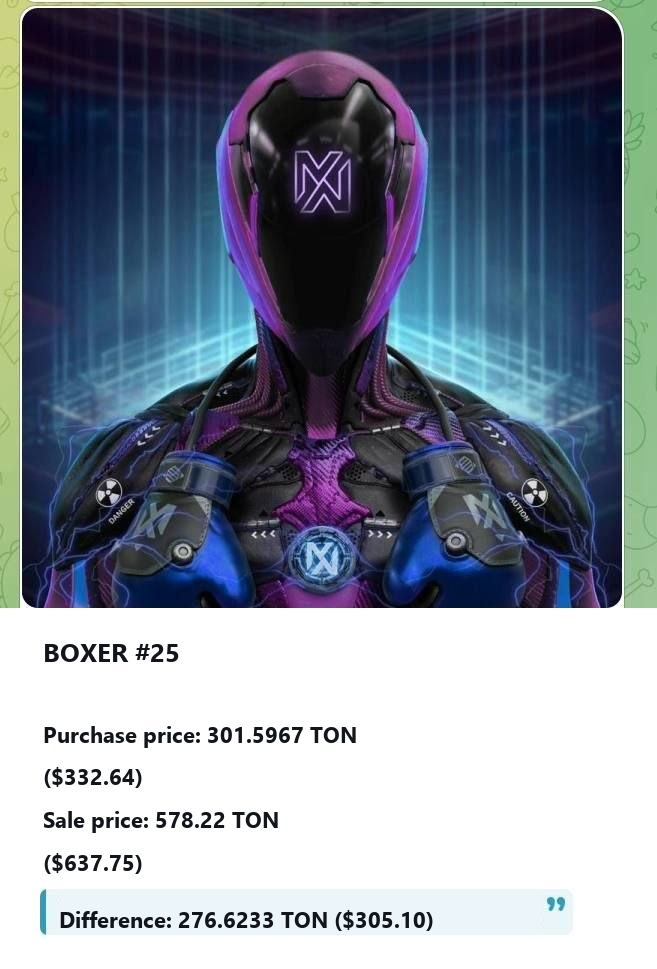
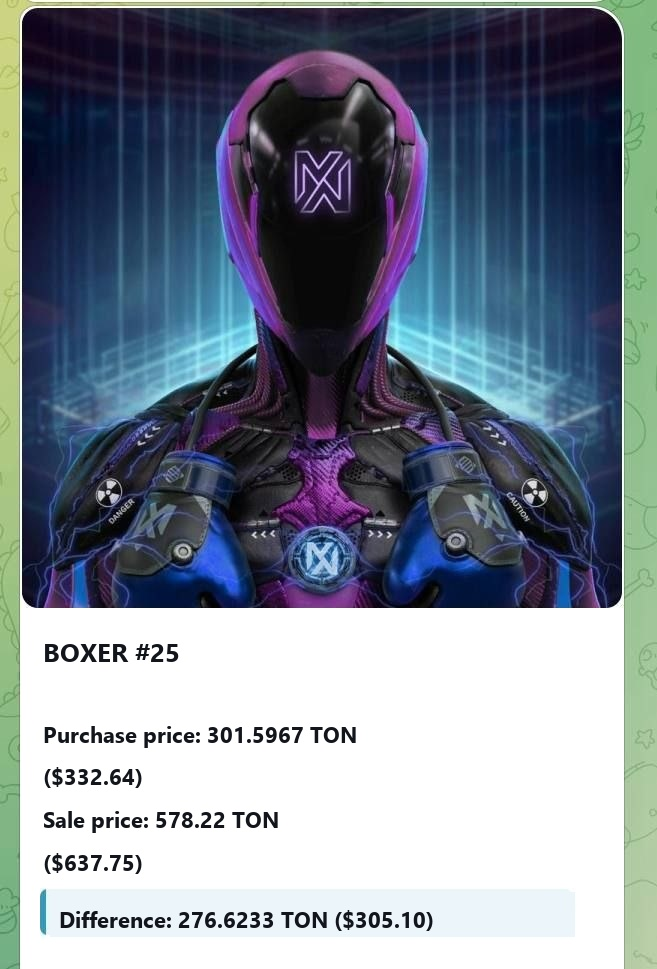
Keep Telegram wallpaper margins on EN BOXER card.
White panel no longer fills past the message edge of the original screenshot.

Changed region(s): [[0.9437, 0.6192, 1.0, 1.0], [0.0, 0.6192, 0.0304, 1.0], [0.8219, 0.9288, 0.8828, 0.9598]]

diff --git a/backend/scripts/make_en_profit_images.py b/backend/scripts/make_en_profit_images.py
@@ -1,5 +1,5 @@
 #!/usr/bin/env python3
-"""EN cards: clean panel + RU quote chrome, English labels, TON/$ only."""
+"""EN cards: clean panel inside RU message bounds (keep wallpaper margins)."""
 from __future__ import annotations
 
 import os
@@ -24,28 +24,61 @@ def src_path(fname: str) -> str:
     return p if os.path.exists(p) else os.path.join(SRC_FALLBACK, fname)
 
 
+def find_white_card_x(im: Image.Image, panel_y: int) -> tuple[int, int]:
+    """Left/right of white message card inside screenshot (wallpaper margins stay)."""
+    w, h = im.size
+    y = min(panel_y + 80, h - 10)
+    left = 0
+    right = w - 1
+    for x in range(w):
+        r, g, b = im.getpixel((x, y))
+        if r > 240 and g > 240 and b > 240:
+            left = x
+            break
+    for x in range(w - 1, -1, -1):
+        r, g, b = im.getpixel((x, y))
+        if r > 240 and g > 240 and b > 240:
+            right = x
+            break
+    return left, right
+
+
 def render_boxer() -> str:
     fname = "profits2.jpg"
     ru = Image.open(src_path(fname)).convert("RGB")
     im = ru.copy()
-    draw = ImageDraw.Draw(im)
     w, h = im.size
     panel_y = 608
+    left, right = find_white_card_x(ru, panel_y)
+    # keep a couple px inside for AA
+    left = max(0, left)
+    right = min(w - 1, right)
 
-    # Clean white panel (no ghosting)
-    draw.rectangle((0, panel_y, w, h), fill=(255, 255, 255))
+    # Preserve wallpaper margins from RU, only wipe the white card body
+    margins_left = ru.crop((0, panel_y, left, h))
+    margins_right = ru.crop((right + 1, panel_y, w, h))
 
-    # Paste original Telegram quote chrome from RU (bar + ”), wipe only text area
-    quote = ru.crop((40, 888, 600, 940))
-    q = quote.copy()
-    qd = ImageDraw.Draw(q)
-    qd.rectangle((18, 6, 500, 46), fill=(236, 246, 250))  # soft fill matching RU quote
-    im.paste(q, (40, 888))
+    draw = ImageDraw.Draw(im)
+    draw.rectangle((left, panel_y, right, h - 1), fill=(255, 255, 255))
+
+    # Quote chrome from RU, clipped to card
+    qy0, qy1 = 888, 940
+    qx0, qx1 = max(left + 4, 40), min(right - 4, 600)
+    quote = ru.crop((qx0, qy0, qx1, qy1)).copy()
+    qd = ImageDraw.Draw(quote)
+    qw, qh = quote.size
+    # wipe text, keep left bar (~4px) and right ” (~24px)
+    qd.rectangle((10, 4, max(11, qw - 26), qh - 4), fill=(236, 246, 250))
+    im.paste(quote, (qx0, qy0))
+
+    # restore wallpaper margins so white never sticks past the photo/message edge
+    im.paste(margins_left, (0, panel_y))
+    im.paste(margins_right, (right + 1, panel_y))
 
     ink = (18, 22, 28)
     font_title = find_font(26)
     font_body = find_font(22)
-    pad = 43
+    pad = left + 22
 
     draw = ImageDraw.Draw(im)
     draw.text((pad, 633), "BOXER #25", fill=ink, font=font_title)
@@ -58,6 +91,7 @@ def render_boxer() -> str:
     out = os.path.join(OUT, fname)
     os.makedirs(OUT, exist_ok=True)
     im.save(out, quality=95, optimize=True)
+    print(f"boxer card x={left}..{right} (kept wallpaper margins)")
     return out
 
 
@@ -77,15 +111,12 @@ def render_dark(fname: str, title: str, buy: str, sell: str, diff: str, pad: int
     draw = ImageDraw.Draw(im)
     draw.rectangle((0, panel_y, w, h), fill=bg + (255,))
 
-    # Quote chrome from RU
     qy0, qy1 = 508, min(h - 2, 536)
-    quote = ru.crop((pad - 4, qy0, min(w - 8, pad + 310), qy1))
-    q = quote.copy()
-    qd = ImageDraw.Draw(q)
-    # wipe inner text, keep left bar (~3-5px) and right edge with ”
-    qw, qh = q.size
+    quote = ru.crop((pad - 4, qy0, min(w - 8, pad + 310), qy1)).copy()
+    qd = ImageDraw.Draw(quote)
+    qw, qh = quote.size
     qd.rectangle((8, 2, max(9, qw - 22), qh - 2), fill=(30, 45, 62, 255))
-    im.paste(q, (pad - 4, qy0), q if q.mode == "RGBA" else None)
+    im.paste(quote, (pad - 4, qy0), quote if quote.mode == "RGBA" else None)
 
     font_title = find_font(15)
     font_body = find_font(13)
